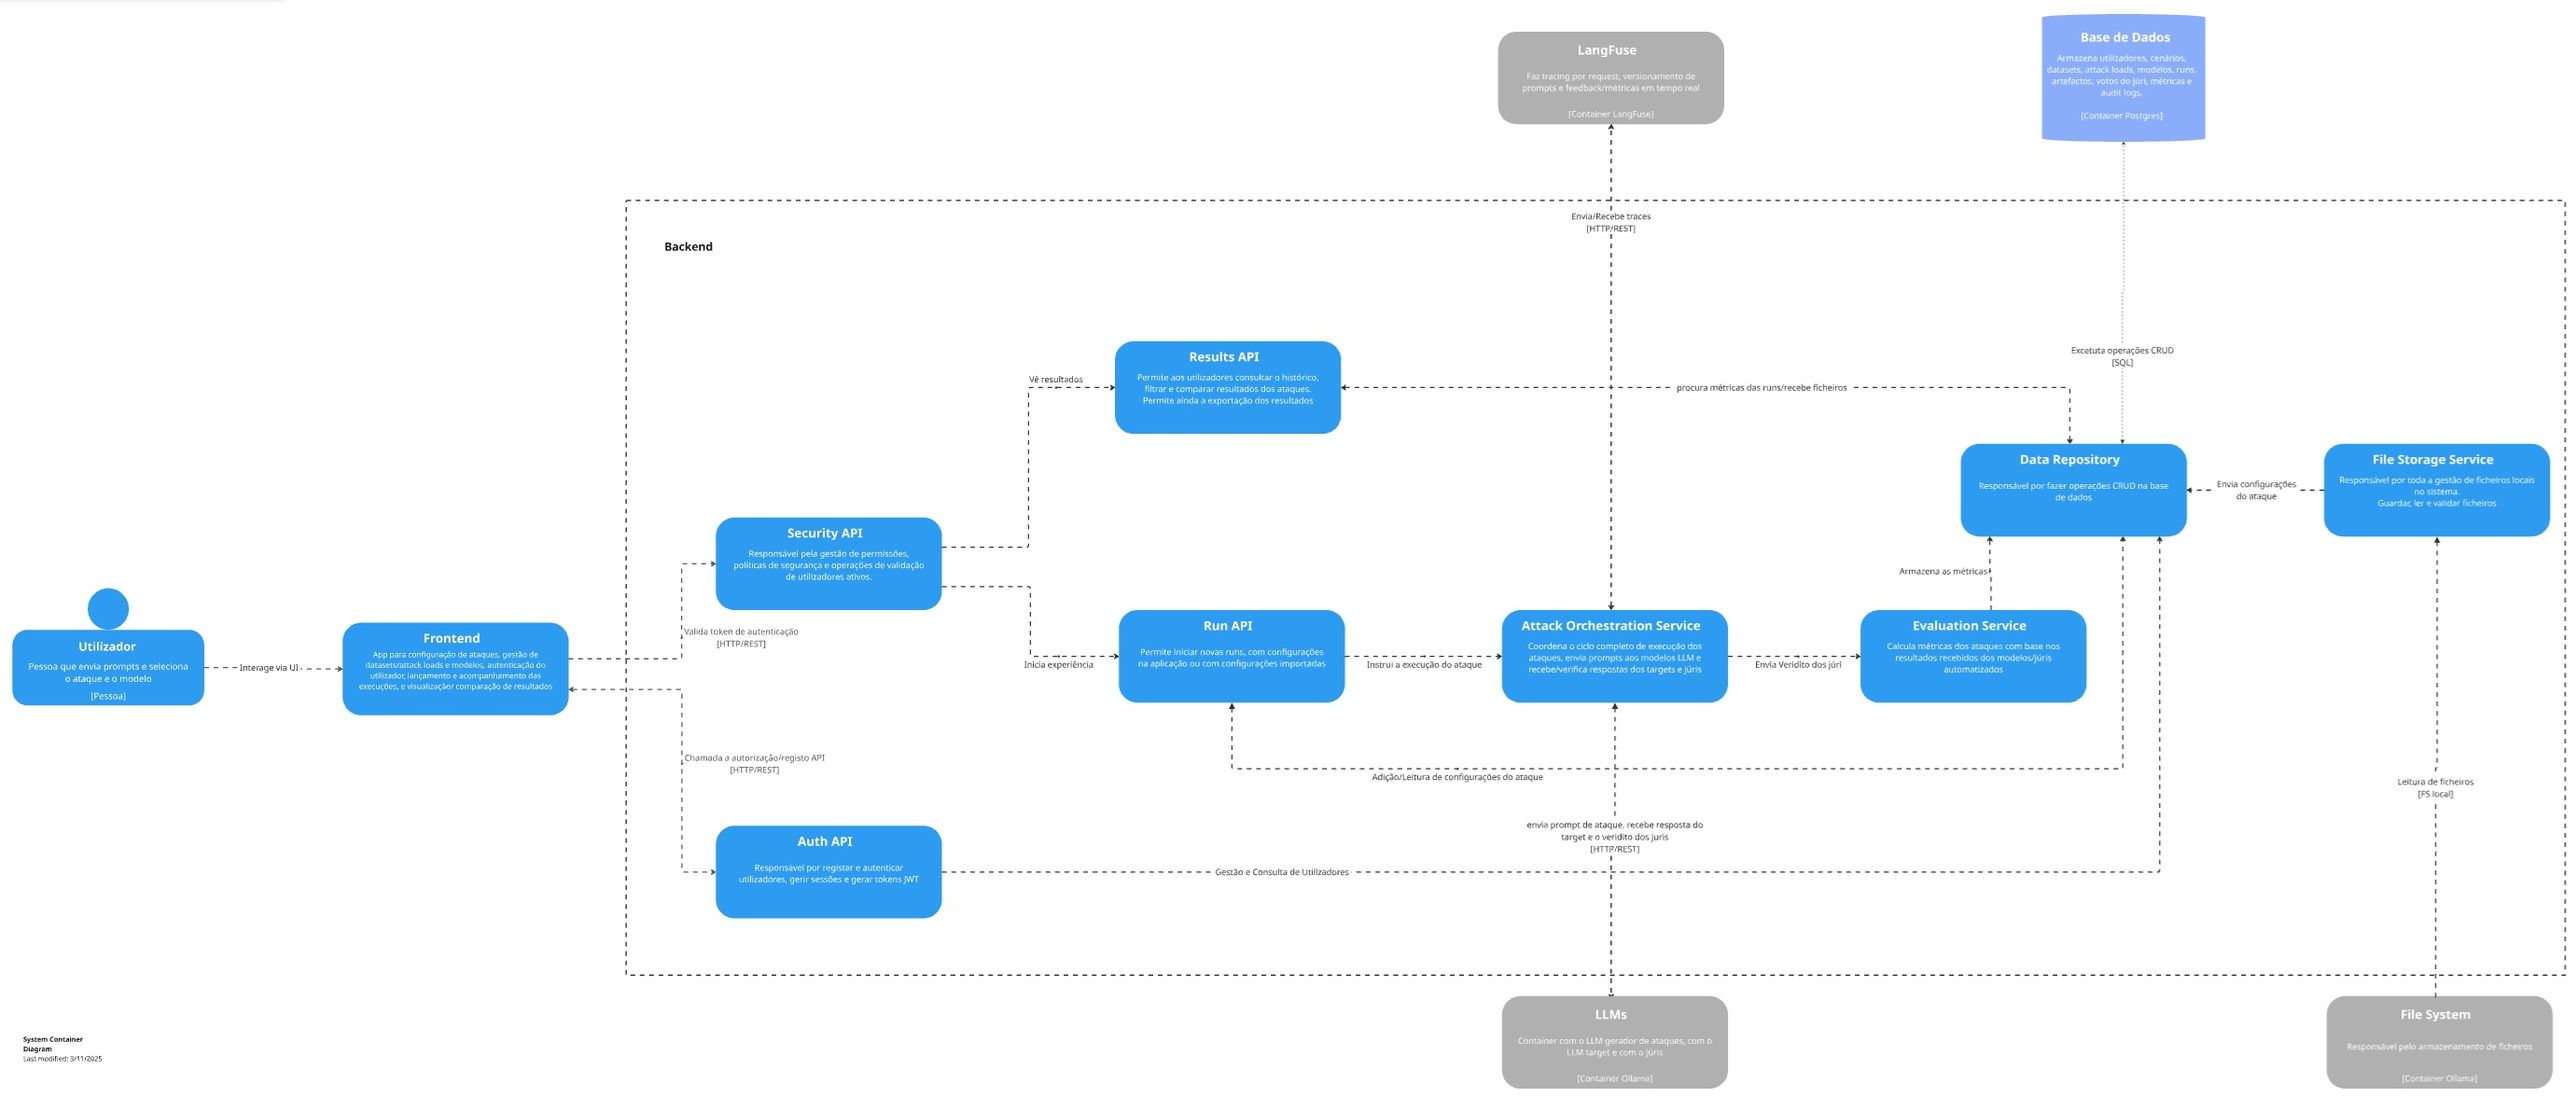
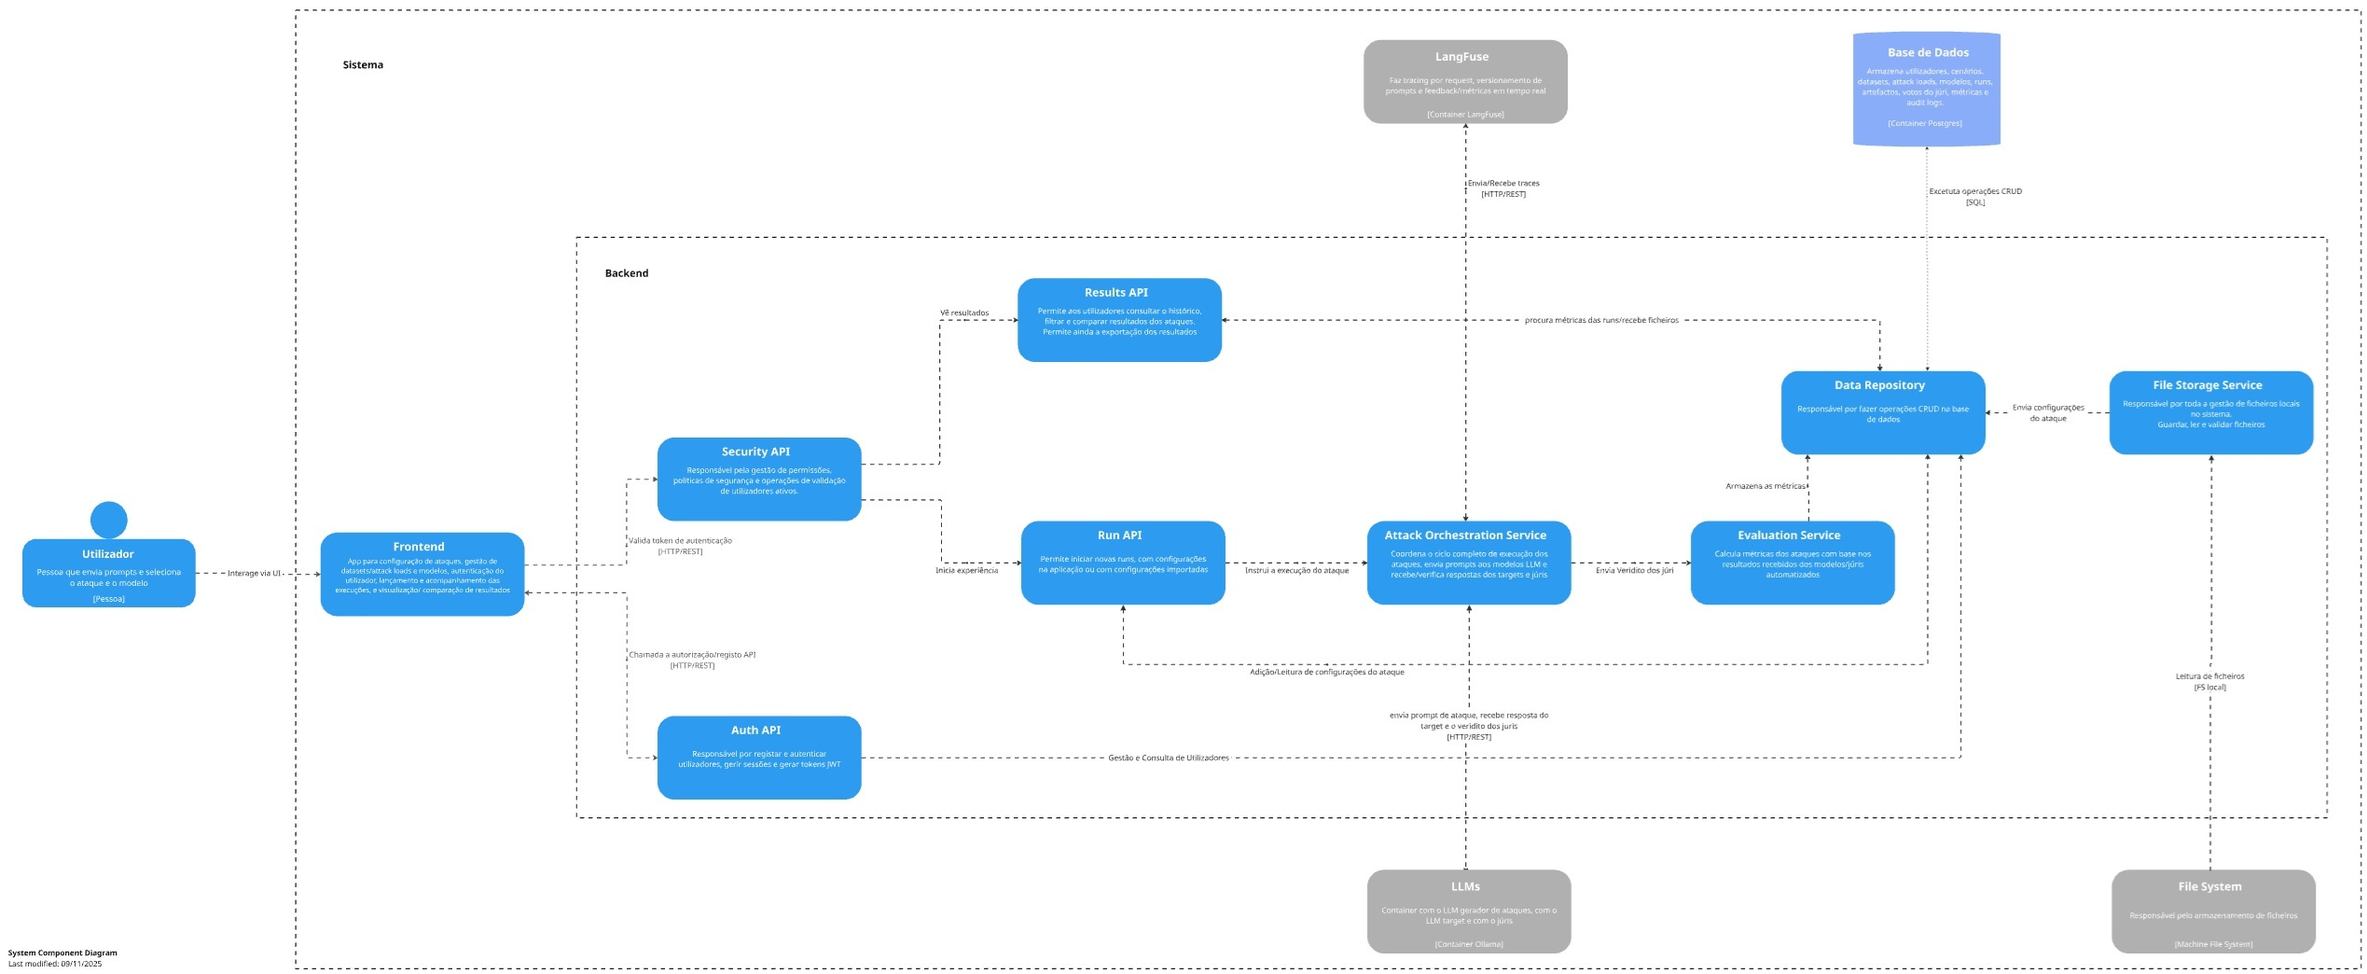
Added requested changes

diff --git a/docs/srs/chapters/3_domain_and_data_model/0_domain_and_data_model.tex b/docs/srs/chapters/3_domain_and_data_model/0_domain_and_data_model.tex
@@ -6,18 +6,14 @@
   \item \texttt{id (uuid)} — identificador único do utilizador.
   \item \texttt{email (text)} — email de autenticação (valor único).
   \item \texttt{password\_hash (text)} — hash seguro da palavra-passe.
-  \item \texttt{role (text)} — perfil de permissões (\texttt{admin|user}).
   \item \texttt{created\_at (timestamptz)} — data/hora de criação do registo.
 \end{itemize}
 
 \subsubsection{scenarios}
 \begin{itemize}
   \item \texttt{id (uuid)} — identificador do cenário.
-  \item \texttt{owner\_user\_id (uuid)} — utilizador que criou/registou o cenário (nulo quando \texttt{is\_builtin=true}).
   \item \texttt{name (text)} — nome curto único do cenário.
   \item \texttt{description (text)} — descrição do cenário.
-  \item \texttt{storage\_path (text)} — caminho do ficheiro de configuração na VM (ex.: \texttt{/var/app/scenarios/\{id\}.json}).
-  \item \texttt{is\_builtin (boolean)} — indica se é um cenário pré-instalado.
   \item \texttt{created\_at (timestamptz)} — data/hora de criação do registo.
 \end{itemize}
 
@@ -26,6 +22,7 @@
   \item \texttt{id (uuid)} — identificador do dataset.
   \item \texttt{owner\_user\_id (uuid)} — utilizador que adicionou/criou o dataset.
   \item \texttt{name (text)} — nome do dataset.
+  \item \texttt{scenario\_id (uuid)} — scenario do qual o dataset faz part.
   \item \texttt{description (text)} — descrição/resumo do dataset.
   \item \texttt{storage\_path (text)} — diretório base na VM (ex.: \texttt{/var/app/datasets/\{id\}/}).
   \item \texttt{mime\_type (text)} — tipo dominante de conteúdo (ex.: \texttt{text/plain}, \texttt{image/*}, \texttt{audio/*}).
@@ -59,20 +56,11 @@
   \item \texttt{attack\_load\_id (uuid)} — identificador do attack load usado.
   \item \texttt{target\_model\_name (uuid)} — nome do modelo alvo (igual a \texttt{models.name}).
   \item \texttt{attack\_model\_name (uuid)} — nome do modelo atacante (igual a \texttt{models.name}, quando aplicável).
-  \item \texttt{visibility (text)} — visibilidade dos resultados (\texttt{public|private}).
+  \item \texttt{public (boolean)} — visibilidade dos resultados (privado=0, publico=1).
   \item \texttt{status (text)} — estado da execução (\texttt{queued|running|judging|done|failed}).
   \item \texttt{langfuse\_trace\_id (text)} — identificador do trace correspondente no Langfuse.
   \item \texttt{started\_at (timestamptz)} — data/hora de início da execução.
   \item \texttt{ended\_at (timestamptz)} — data/hora de fim da execução.
-\end{itemize}
-
-\subsubsection{artifacts} \emph{(prompts/outputs/configs/logs)}
-\begin{itemize}
-  \item \texttt{id (uuid)} — identificador do artefacto.
-  \item \texttt{run\_id (uuid)} — identificador da execução a que pertence.
-  \item \texttt{kind (text)} — tipo do artefacto (\texttt{prompt|output|config|log}).
-  \item \texttt{storage\_path (text)} — caminho/URL do ficheiro (ex.: \texttt{file:///var/app/artifacts/\{run\_id\}/...}).
-  \item \texttt{created\_at (timestamptz)} — data/hora de criação do registo.
 \end{itemize}
 
 \subsubsection{jury\_votes}
@@ -80,8 +68,8 @@
   \item \texttt{id (uuid)} — identificador do voto do jurado.
   \item \texttt{run\_id (uuid)} — identificador da execução avaliada.
   \item \texttt{juror\_index (int)} — posição do jurado na votação (1..3).
-  \item \texttt{verdict (text)} — decisão do jurado em relação à conformidade/segurança da resposta face ao objetivo do ataque (\texttt{recusa|cumpre}).
-  \item \texttt{usefulness (numeric)} — utilidade atribuída á resposta do modelo alvo (\texttt{0 ou 1}).
+  \item \texttt{verdict (boolean)} — decisão do jurado em relação à conformidade/segurança da resposta face ao objetivo do ataque (\texttt{recusa|cumpre}).
+  \item \texttt{usefulness (boolean)} — utilidade atribuída á resposta do modelo alvo (\texttt{0 ou 1}).
   \item \texttt{model\_name (text)} — nome do modelo do jurado (igual a \texttt{models.name}).
   \item \texttt{created\_at (timestamptz)} — data/hora de criação do registo.
 \end{itemize}
@@ -90,22 +78,18 @@
 \begin{itemize}
   \item \texttt{run\_id (uuid)} — identificador da execução a que pertencem as métricas.
   \item \texttt{asr (numeric)} — \textit{Attack Success Rate} da execução.
-  \item \texttt{orr (numeric)} — \textit{Output Refusal Rate} da execução.
+  \item \texttt{orr (numeric)} — \textit{Over-Refusal Rate} da execução.
   \item \texttt{aor (numeric)} — \textit{Achieved Objective Rate} da execução.
   \item \texttt{useful\_majority (boolean)} — consenso final de utilidade decidida pelo júri.
   \item \texttt{verdict\_majority (boolean)} — consenso final sobre o veredito do ataque decidida pelo júri. 
 \end{itemize}
 
-\subsubsection{audit\_logs}
-\begin{itemize}
-  \item \texttt{id (uuid)} — identificador do evento de auditoria.
-  \item \texttt{owner\_user\_id (uuid)} — utilizador que originou o evento (quando aplicável).
-  \item \texttt{action (text)} — ação realizada (\texttt{login|create\_run|judge|export|...}).
-  \item \texttt{run\_id (uuid)} — identificador da execução relacionada (quando aplicável).
-  \item \texttt{created\_at (timestamptz)} — data/hora de criação do registo.
-\end{itemize}
-
-
-
 \subsection{Relações entre Entidades}
+Na Figura \ref{fig:diagrama_database_relacoes} podemos observar as relações entre as entidades na base de dados.
+\begin{figure}[H]
+  \centering
+  \includegraphics[width=\linewidth]{images/database_relations.jpeg}
+  \caption{Relações entre as entidades da base de dados}
+  \label{fig:diagrama_database_relacoes}
+\end{figure}
 

diff --git a/docs/srs/chapters/4_system_architecture/0_system_architecture.tex b/docs/srs/chapters/4_system_architecture/0_system_architecture.tex
@@ -67,7 +67,7 @@ Componente dedicado à execução dos modelos de linguagem (LLMs). Recebe pedido
 O mesmo container aloja modelos com papéis diferents (LLM gerador de ataques, LLM alvo e júris) configurados de forma independente.
 A comunicação bidirecional com o \textit{Backend} permite enviar pedidos e receber resultados para posterior armazenamento e análise.
 
-\subsubsection{File System \textit{(Container Ollama / FS local)}}
+\subsubsection{File System \textit{(FS local)}}
 O \textit{File System} representa o sistema de ficheiros da máquina onde o sistema está hospedado. É utilizado para leitura e escrita de artefactos experimentais, incluindo:
 \begin{itemize}
 \item datasets e \textit{attack loads};
@@ -80,7 +80,7 @@ A comunicação é feita através do sistema de ficheiros local, permitindo ao \
 Plataforma de observabilidade e análise de \textit{tracing} que recolhe informações sobre cada execução.
 O \textit{Backend} envia eventos relativos a prompts, respostas e métricas, permitindo o versionamento de artefactos e o acompanhamento das execuções em tempo real.
 
-\subsubsection{Racionacinio de Desenho}
+\subsubsection{Raciocínio de Desenho}
 O sistema foi desenhado com base em princípios de separação de responsabilidades, auditabilidade e escalabilidade:
 \begin{itemize}
 \item \textbf{Isolamento de componentes}: cada container tem funções bem definidas (UI, orquestração, persistência, execução e observabilidade);
@@ -112,7 +112,7 @@ O Backend decompõe-se em múltiplos componentes especializados, organizados em 
 \item \textbf{Security API}: Responsável por processar pedidos de autenticação e autorização. Valida credenciais do utilizador, emite tokens JWT e impõe políticas de segurança para operações sensíveis do sistema.
 \item \textbf{Auth API}: Garante o registo e login de novos utilizadores na plataforma.
 \item \textbf{Results API}: Responsável por recuperar, filtrar e formatar resultados de execuções. Interage com o \textit{Data Repository} para consultar histórico de execuções, métricas agregadas e votos do júri, disponibilizando-os ao \textit{Frontend}. Permite a exportação dos resultados.
-\item \textbf{Run API}:  Componente que recebe pedidos de lançamento de experiências do \textit{Frontend}, valida configurações através do \textit{Configuration API}, passando  a execução para o \textit{Attack Orchestration Service}. Permite a importação de configurações por parte do utilizador.
+\item \textbf{Run API}:  Componente que recebe pedidos de lançamento de experiências do \textit{Frontend}, passando  a execução para o \textit{Attack Orchestration Service}. Permite a importação de configurações por parte do utilizador.
 \end{itemize}
 
 \paragraph{Camada de Serviços de Orquestração}
@@ -141,7 +141,7 @@ O \textit{Frontend} envia credenciais ao \textit{Auth API}, que valida com a \te
 O \textit{Run API} recebe um pedido de execução e a configuração, invoca o \textit{Attack Orchestration Service} para gerar ataques (comunicando com \textit{Ollama LLMs}), coordena respostas do LLM alvo e encaminha pares para o \textit{Evaluation Service}. Resultados são persistidos no \textit{Data Repository} e rastreados no \textit{LangFuse}.
 
 \item \textbf{Fluxo de Avaliação}: 
-O \textit{Attack Orchestration Service} solicita ao \textit{Ollama LLMs} a execução de modelos júri, recolhe votos, e eniva para o \textit{Evaluation Service} que calcula métricas agregadas e persiste no \textit{Data Repository}. Envia feedback estruturado ao \textit{LangFuse} para análise retrospetiva.
+O \textit{Attack Orchestration Service} solicita ao \textit{Ollama LLMs} a execução de modelos júri, recolhe votos, e envia para o \textit{Evaluation Service} que calcula métricas agregadas e persiste no \textit{Data Repository}. Envia feedback estruturado ao \textit{LangFuse} para análise retrospetiva.
 
 \item \textbf{Fluxo de Consulta de Resultados}: 
 O \textit{Results API} processa pedidos do \textit{Frontend}, consulta o \textit{Data Repository} para recuperar execuções, métricas e histórico, e devolve dados formatados.

diff --git a/docs/srs/chapters/0_cover/0_cover.tex b/docs/srs/chapters/0_cover/0_cover.tex
@@ -7,15 +7,18 @@
 }}
 
 \author{
-    Diogo Frazão 2024156386\\
-    Francisco Coelho 2021226534\\
-    Joel Oliveira 2021215037\\
-    Raul Rodrigues 	2021234487\\
+    Diogo Pinto 2024156583, Diogo Frazão 2024156386\\
+    Francisco Coelho 2021226534, Giovanni Medeiros 2024232210\\
+    João Carvalho 2024173154, João Santos 2021236820\\
+    Joel Oliveira 2021215037, Pedro Leixo 2019218783\\
+    Raul Rodrigues 2021234487, Tiago Conceição 2021233341\\
+    Tomás Azougado 2021237129, Tomé Ferreira 2021232615 \\
 }
-    
+
 \date{\today} % Set the date (or remove to leave it empty)
 \maketitle
 
 \begin{center}
+    \large Automated Red-Teaming of LLMs through Prompt-Based Attack Simulation\\
     \LARGE Gestão de Projetos
 \end{center}
